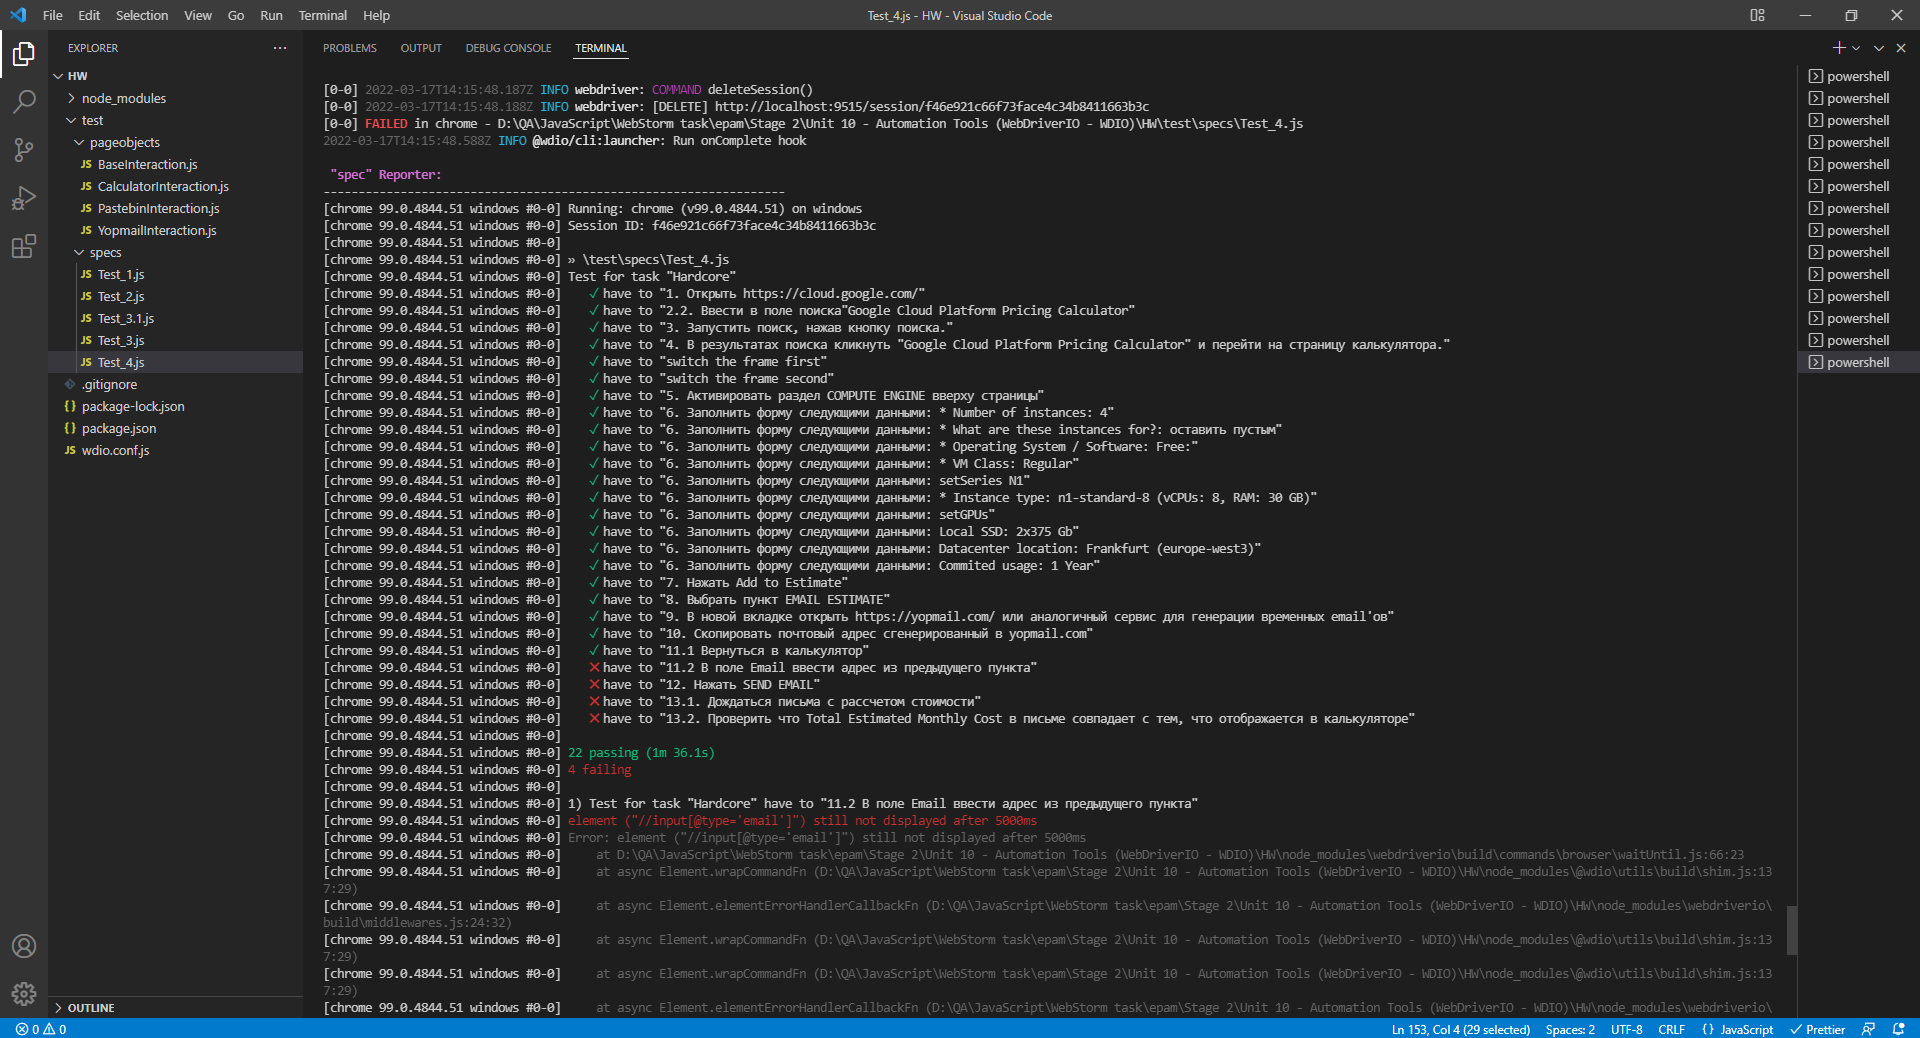
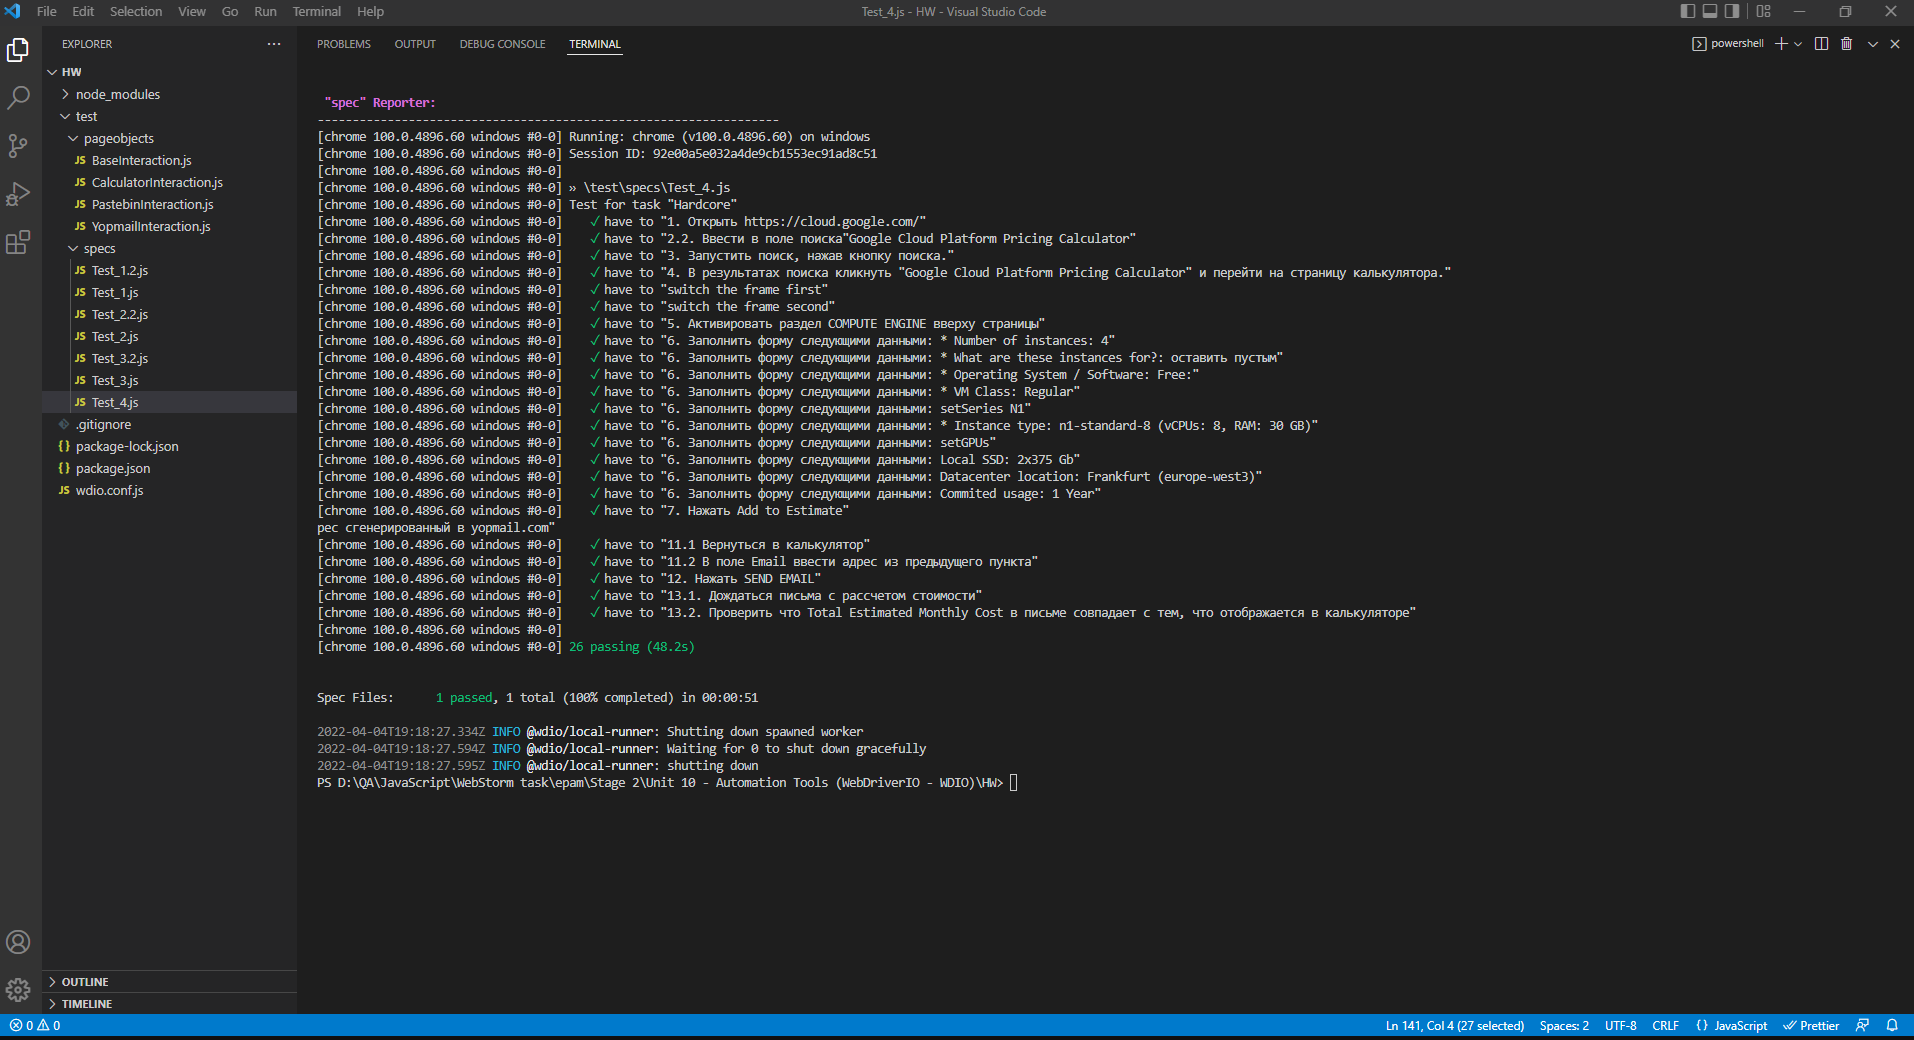
upload files for unit 10

Changed region(s): [[0.0, 0.0, 1.0, 1.0], [0.9248, 0.8632, 0.9556, 0.9249], [0.5857, 0.8632, 0.6473, 0.894]]

diff --git a/test/specs/Test_4.js b/test/specs/Test_4.js
@@ -6,10 +6,13 @@ describe('Test for task "Hardcore"', function () {
 
   const textForInstaces = '4';
 
-  let url;
+  let email;
+  let googleCloudTabHandle;
+  let yopmailTabHandle;
 
-  const checkFieldEstimatedInPost = '//td[contains(text() , "USD 1,082.77")]';
-  const totalEstimatedInPost = 'Estimated Monthly Cost: USD 1,082.77';
+  const checkFieldEstimatedInPost =
+    '//h3[contains(text() , "Total Estimated Monthly Cost")]/../following-sibling::td/h3';
+  const totalEstimatedInPost = 'USD 1,082.77';
 
   it('have to "1. Открыть https://cloud.google.com/"', async function () {
     await calculator.openURL();
@@ -85,9 +88,7 @@ describe('Test for task "Hardcore"', function () {
 
   it('have to "8. Выбрать пункт EMAIL ESTIMATE"', async function () {
     await calculator.clickButtonEmailEstimate();
-    await browser.pause(2000);
-    url = await browser.getUrl();
-    await browser.pause(2000);
+    googleCloudTabHandle = await browser.getWindowHandle();
   });
 
   it('have to "9. В новой вкладке открыть https://yopmail.com/ или аналогичный сервис для генерации временных email\'ов"', async function () {
@@ -96,28 +97,36 @@ describe('Test for task "Hardcore"', function () {
 
   it('have to "10. Скопировать почтовый адрес сгенерированный в yopmail.com"', async function () {
     await yopmail.setNewEmail();
+    email = await $('#egen').getText();
+    yopmailTabHandle = await browser.getWindowHandle();
+    await browser.pause(4000);
   });
 
   it('have to "11.1 Вернуться в калькулятор"', async function () {
-    await browser.switchWindow(url);
-    // await yopmail.returnToCalculator();
+    await yopmail.returnToCalculator(googleCloudTabHandle);
+    await calculator.switchFrame();
+    await calculator.switchFrame();
   });
 
   it('have to "11.2 В поле Email ввести адрес из предыдущего пункта"', async function () {
-    await calculator.pasteNewEmail();
+    await calculator.pasteNewEmail(email);
   });
 
   it('have to "12. Нажать SEND EMAIL"', async function () {
     await calculator.clickButtonSendEmail();
+    await browser.pause(2000);
   });
 
   it('have to "13.1. Дождаться письма с рассчетом стоимости"', async function () {
-    await calculator.returnToYopmail();
-    await yopmail.checkPost();
+    await calculator.returnToYopmail(yopmailTabHandle);
+    await yopmail.clickButtonChechEmail();
+    await yopmail.switchFrame();
+    await yopmail.waitForDisplayPost();
   });
 
   it('have to "13.2. Проверить что Total Estimated Monthly Cost в письме совпадает с тем, что отображается в калькуляторе"', async function () {
-    const elem = $(checkFieldEstimatedInPost);
+    await $(checkFieldEstimatedInPost).waitForDisplayed({ timeout: 6000 });
+    const elem = await $(checkFieldEstimatedInPost);
     await expect(elem).toHaveTextContaining(totalEstimatedInPost);
   });
 });

diff --git a/test/pageobjects/YopmailInteraction.js b/test/pageobjects/YopmailInteraction.js
@@ -9,10 +9,11 @@ class YopmailInteraction extends BaseInteraction {
       "//div[@id='listeliens']/child::a[@href='email-generator']";
     this.fieldWithEmail = '#egen';
     this.copyNewEmail = '#cprnd';
-    this.urlCalculator = 'Google Cloud Pricing Calculator';
+    this.fieldWithEmail = '#egen';
 
+    this.elementOfPost =
+      '//h3[contains(text(), "Total Estimated Monthly Cost")]';
     this.buttonCheckEmail = "//button[@onclick='egengo();']";
-    this.choosePost = "//button[@class='lm']";
   }
   // 9. В новой вкладке открыть https://yopmail.com/ или аналогичный сервис для генерации временных email'ов
   async openNewTab() {
@@ -23,22 +24,29 @@ class YopmailInteraction extends BaseInteraction {
   async setNewEmail() {
     await this.waitForLoadingAnElemen(this.generatorEmail);
     await this.clickElement(this.generatorEmail);
-    await this.waitForLoadingAnElemen(this.copyNewEmail);
-    await this.clickElement(this.copyNewEmail);
+  }
+
+  async getEmail() {
+    await this.getTextFromElement(this.fieldWithEmail);
   }
 
   // 11. Вернуться в калькулятор, в поле Email ввести адрес из предыдущего пункта
-  async returnToCalculator() {
-    await this.switchWindown(this.urlCalculator);
+  async returnToCalculator(handle) {
+    await this.switchWindown(handle);
   }
 
   // 13. Дождаться письма с рассчетом стоимости и проверить что Total Estimated Monthly Cost в письме совпадает с тем,
   // что отображается в калькуляторе
-  async checkPost() {
+  async clickButtonChechEmail() {
     await this.waitForLoadingAnElemen(this.buttonCheckEmail);
     await this.clickElement(this.buttonCheckEmail);
-    await this.waitForLoadingAnElemen(this.choosePost);
-    await this.clickElement(this.choosePost);
+  }
+
+  async switchFrame() {
+    await browser.switchToFrame(2);
+  }
+  async waitForDisplayPost() {
+    await this.waitForLoadingAnElemen(this.elementOfPost);
   }
 }
 

diff --git a/test/pageobjects/CalculatorInteraction.js b/test/pageobjects/CalculatorInteraction.js
@@ -59,7 +59,7 @@ class CalculatorInteraction extends BaseInteraction {
 
     this.buttonSendEmail = '//button[@aria-label="Send Email"]';
 
-    this.urlYopMail = 'https://yopmail.com/ru/email-generator';
+    // this.urlYopMail = 'https://yopmail.com/ru/email-generator';
   }
   // 1. Открыть https://cloud.google.com/
   async openURL() {
@@ -190,21 +190,22 @@ class CalculatorInteraction extends BaseInteraction {
   }
 
   // 11. Вернуться в калькулятор, в поле Email ввести адрес из предыдущего пункта
-  async pasteNewEmail() {
+  async pasteNewEmail(text) {
     await this.waitForLoadingAnElemen(this.inputForEmail);
-    await this.pasteText(this.inputForEmail);
+    await this.inputTextIntoElement(this.inputForEmail, text);
   }
 
   // 12. Нажать SEND EMAIL
   async clickButtonSendEmail() {
     await this.waitForLoadingAnElemen(this.buttonSendEmail);
     await this.clickElement(this.buttonSendEmail);
+    await this.waitForDisappearAnElemen(this.buttonSendEmail);
   }
 
   // 13. Дождаться письма с рассчетом стоимости и проверить что Total Estimated Monthly Cost в письме совпадает с тем,
   // что отображается в калькуляторе
-  async returnToYopmail() {
-    await this.switchWindown(this.urlYopMail);
+  async returnToYopmail(handle) {
+    await this.switchWindown(handle);
   }
 }
 

diff --git a/test/pageobjects/BaseInteraction.js b/test/pageobjects/BaseInteraction.js
@@ -32,12 +32,12 @@ class BaseInteraction {
     await browser.newWindow(url);
   }
 
-  async switchWindown(selector) {
-    await browser.switchWindow(selector);
+  async switchWindown(handle) {
+    await browser.switchToWindow(handle);
   }
 
-  async pasteText(selector) {
-    await $(selector).setValue(['Control', 'KeyV']);
+  async waitForDisappearAnElemen(selector) {
+    await $(selector).waitForDisplayed({ timeout: 6000, reverse: true });
   }
 }
 
